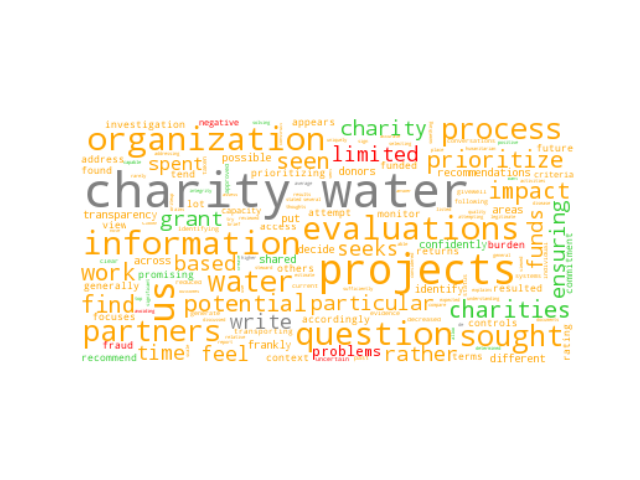
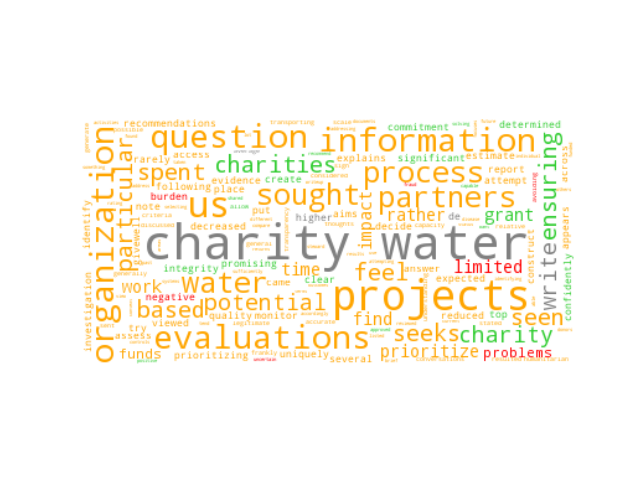
Changing the main page so the discrepancies images are not shown in the same line / updated the word clouds and the sentiment bar charts

Changed region(s): [[0.125, 0.25, 0.9062, 0.7812]]

diff --git a/index.html b/index.html
@@ -41,15 +41,6 @@ body {
   .sidenav a {font-size: 18px;}
 }
 
-* {
-  box-sizing: border-box;
-}
-
-.column {
-  float: left;
-  width: 33.33%;
-  padding: 5px;
-}
 </style>
 </head>
 <body>
@@ -77,21 +68,13 @@ body {
   that the pooled Glassdoor reviews produce a higher result than the Givewell
   review.</p>
 
-  <div class="row">
-    <div class="column">
-      <h4>Compound score</h4>
-      <img src="images/compund.png" style="width:100%">
-    </div>
-    <div class="column">
-      <h4>Positive sentences</h4>
-      <img src="images/positive.png" style="width:100%">
-    </div>
-    <div class="column">
-      <h4>Negative sentences</h4>
-      <img src="images/negative.png" style="width:100%">
-    </div>
-  </div>
-
+  <h4>Compound score</h4>
+  <img src="images/compound.png" style="width:100%">
+  <h4>Positive sentences</h4>
+  <img src="images/positive.png" style="width:100%">
+  <h4>Negative sentences</h4>
+  <img src="images/negative.png" style="width:100%">
+  
 </div>
    
 </body>
